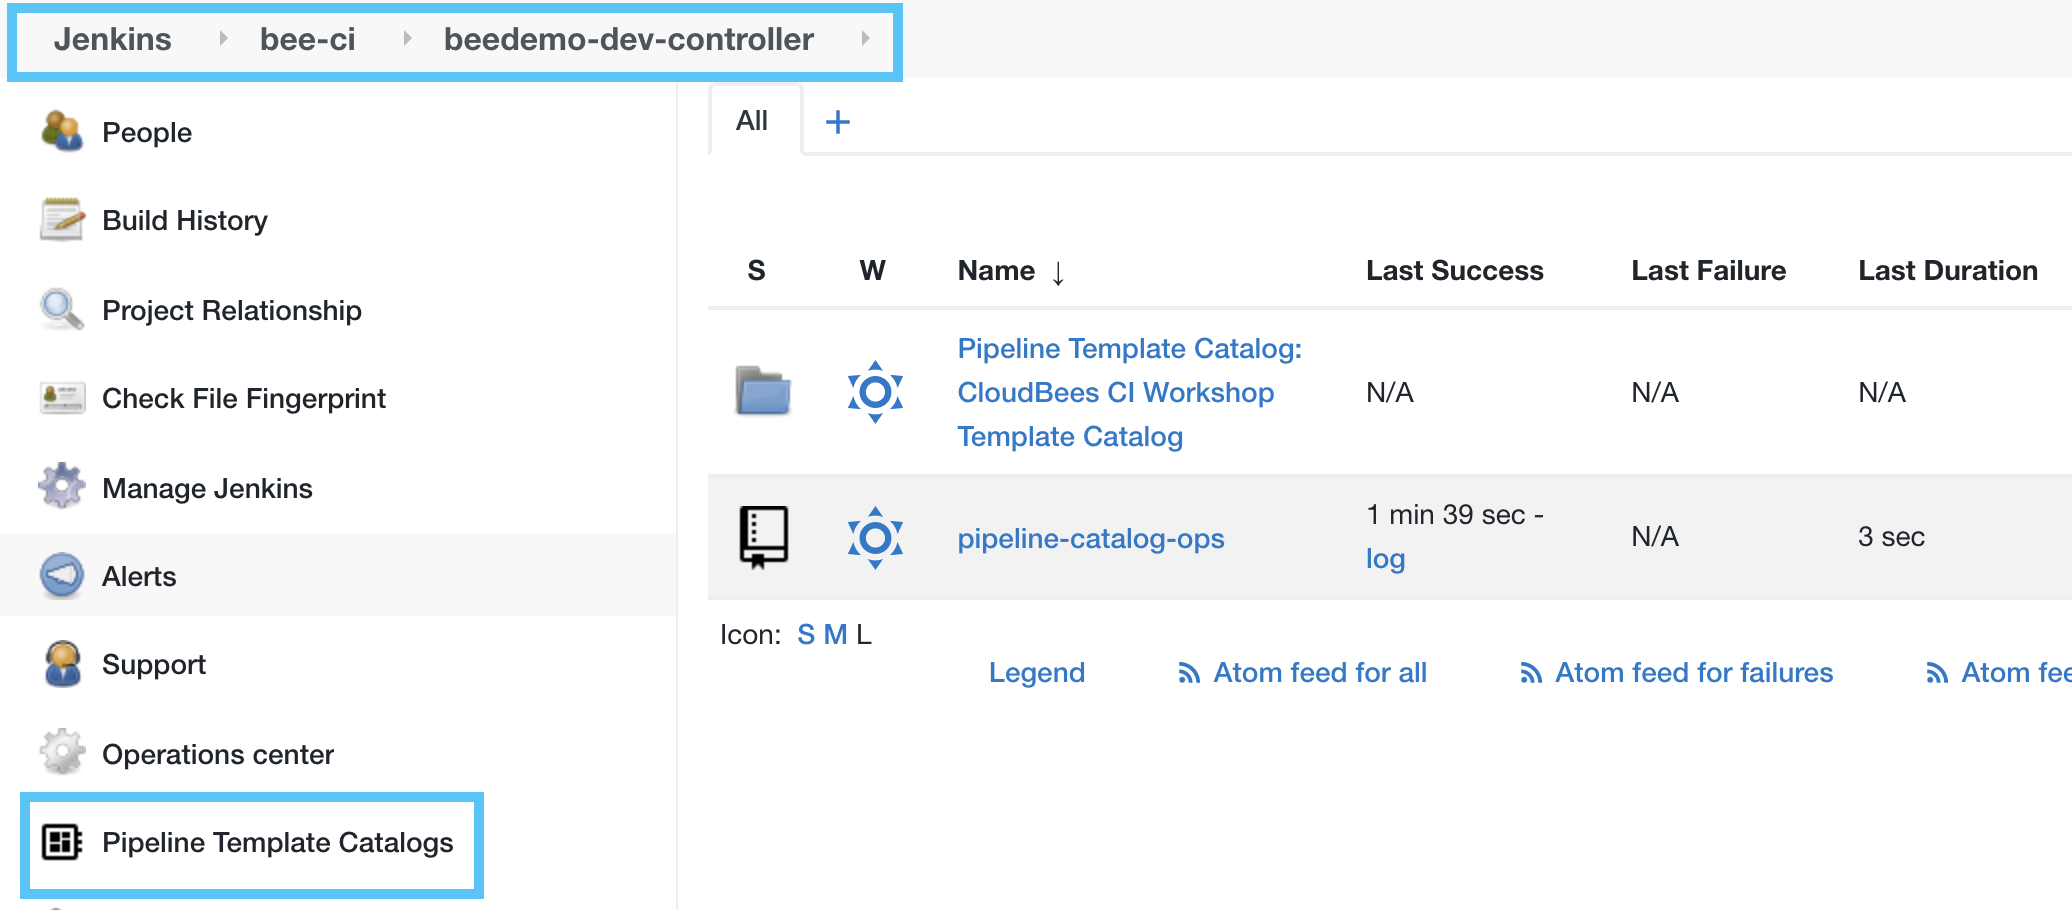
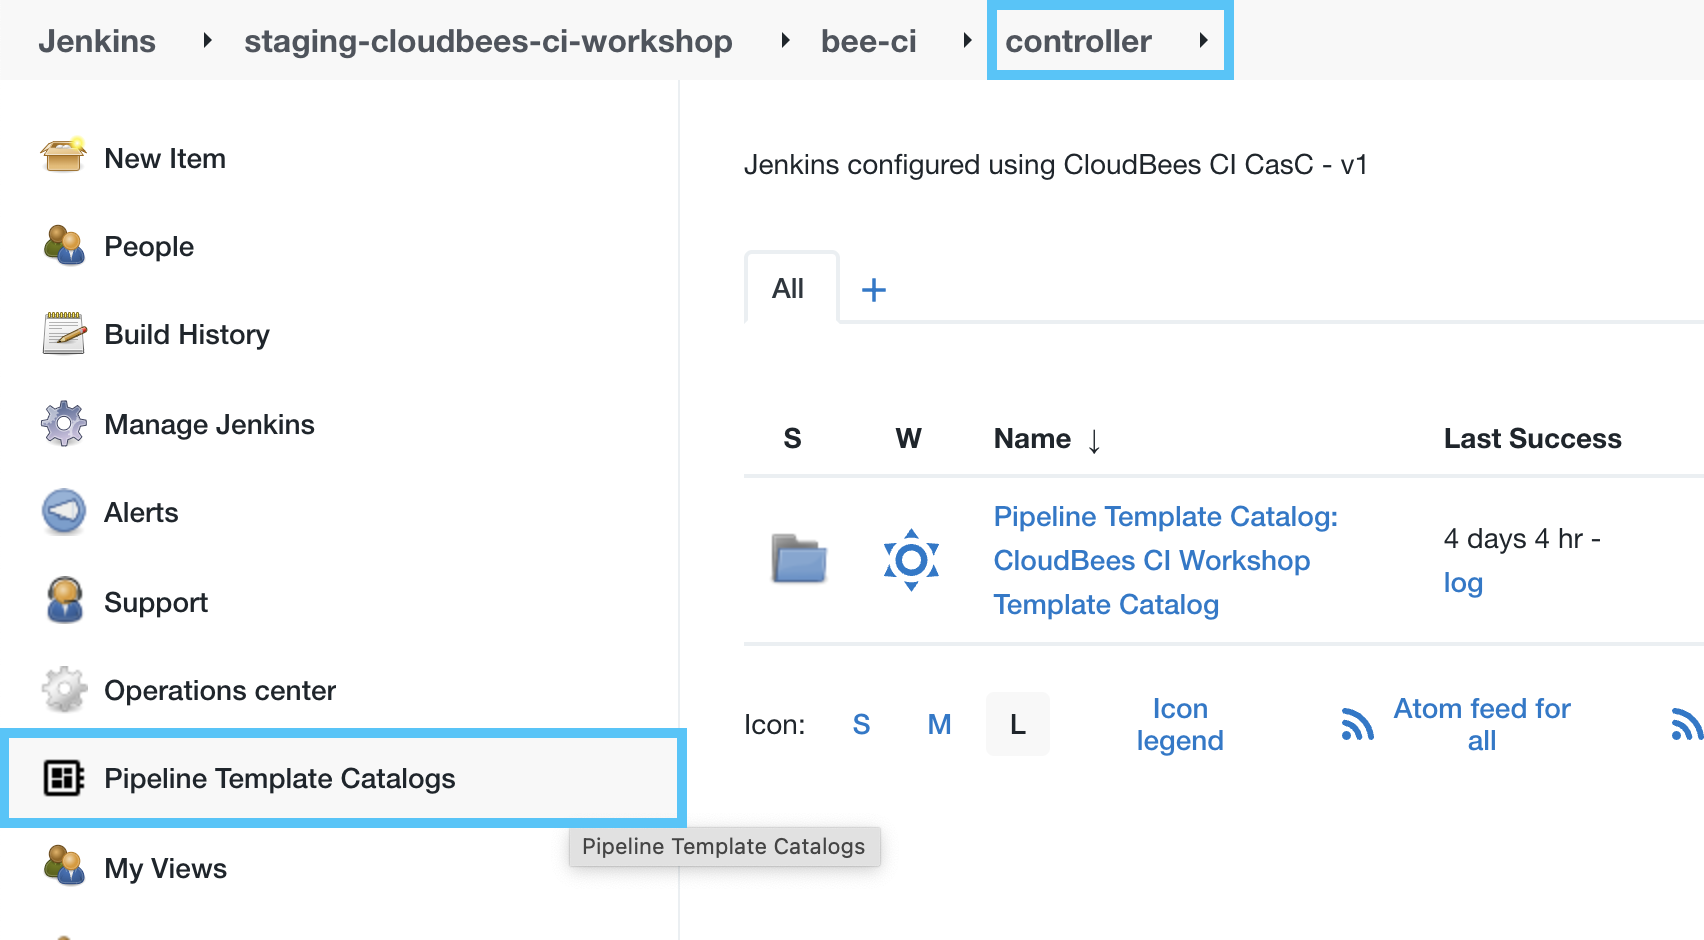
updating template catalog lab

diff --git a/labs/cloudbees-ci/content/module-1/pipeline-template-catalog.md b/labs/cloudbees-ci/content/module-1/pipeline-template-catalog.md
@@ -6,46 +6,16 @@ weight: 1
 
 Managing Pipeline Template Catalogs across a large number of ***managed controllers*** using the graphical user interface (GUI) is time consuming and prone to human error due to the repetitive nature of the task.
 
-Using the provided command-line interface (CLI), allows for automated management of Pipeline Template Catalogs across multiple managed controllers, which reduces efforts and ensures consistency across all development teams.
+Configuration as Code (CasC) for CloudBees CI allows for managing Pipeline Template Catalogs as code across multiple managed controllers, which reduces efforts and ensures consistency across all of your teams.
 
 
-## Import Pipeline Template Catalog
+## Explore Pipeline Template Catalog
 This lab will explore how to manage CloudBees CI Pipeline Template Catalogs with the CloudBees CI CLI. 
 
 1. Navigate to the top-level of CloudBees CI Operations Center - **Dashboard** - and click on the link for your Managed Controller (it will have the same names as your workshop GitHub Organization). ![Managed Controller link](managed-controller-link.png?width=60pc)
-2. At the top-level of your CloudBees CI Managed Controller click on **New Item** in the left menu. ![New Item](create-new-item.png?width=60pc)
-3. Enter ***pipeline-catalog-ops*** as the **item name**, select **Multibranch Pipeline** as the item type and the click the **OK** button. ![import-catalog Pipeline](create-pipeline-item.png?width=60pc)
-4. Under **Branch Sources** click on **Add source** and select ***GitHub*** ![Branch Sources Configuration](add-source-github.png?width=40pc)
-5. Under the **GitHub** branch source enter the following:
-   - Select ***CloudBees CI Workshop GitHub App credential*** for the **Credentials** value. 
-   - Enter the URL for your copy of the `pipeline-template-catalog` as the value for the **Repository HTTPS URL** - ***https:\//github.com/{YOUR_GITHUB_ORGANIZATION}/pipeline-template-catalog.git***
-
-{{% notice tip %}}
-If you navigate to your GitHub `pipeline-template-catalog` repository, and click on the **Code** button, you can then click on the *clipboard* icon to copy the Git URL for your repository.
-{{% /notice %}}
-
-![Copy Repo Git URL](copy-repo-url.png?width=40pc)
-
-   - The rest of the default values are sufficient so click the **Validate** button and then click the **Save** button. ![Branch Sources Configuration](branch-source-config.png?width=50pc)
-   - The `Jenkinsfile` in your `pipeline-template-catalog` repository is configured to use the CloudBees CI CLI command `cli pipeline-template-catalogs --put < create-pipeline-template-catalog.json` to create a **Pipeline Template Catalog** on your Managed Controller from the `create-pipeline-template-catalog.json` file in your `pipeline-template-catalog` repository as seen below:
-     ```json
-     [
-       {
-         "scm":{ 
-           "$class":"GitHubSCMSource",
-           "credentialsId":"cloudbees-ci-workshop-github-app",
-           "repoOwner":"bee-cd",
-           "repository":"pipeline-template-catalog"
-         },
-         "branchOrTag":"main",
-         "updateInterval":"15m"
-       }
-     ]
-     ```
-6. A Pipeline job will be created for the `main` branch of your `pipeline-template-catalog` repository and once the job is complete you should see the following success message in the build logs: ![Catalog Imported](catalog-imported.png?width=50pc)
-7. Navigate to the top-level of your managed controller and then click on the **Pipeline Template Catalogs** link in the menu on the left. ![Pipeline Template Catalogs link](catalog-link.png?width=40pc)
-8. On the **Pipeline Template Catalogs** page ensure that the **workshopCatalog** catalog's **Status** is ***Healthy*** and then click on the **workshopCatalog** link. <p>![workshopCatalog link](workshopcatalog-link.png?width=50pc)
-9.  On the **CloudBees CI Workshop Template Catalog** screen you will see the following templates listed: ![Template List](workshop-template-list.png?width=50pc)
+2. Navigate to the top-level of your managed controller and then click on the **Pipeline Template Catalogs** link in the menu on the left. ![Pipeline Template Catalogs link](catalog-link.png?width=40pc)
+3. On the **Pipeline Template Catalogs** page ensure that the **workshopCatalog** catalog's **Status** is ***Healthy*** and then click on the **workshopCatalog** link. <p>![workshopCatalog link](workshopcatalog-link.png?width=50pc)
+4.  On the **CloudBees CI Workshop Template Catalog** screen you will see the following templates listed: ![Template List](workshop-template-list.png?width=50pc)
 
 ## Enforce the Use of Templates at the Folder Level
 The [CloudBees CI Folders Plus plugin](https://docs.cloudbees.com/docs/cloudbees-ci/latest/cloud-secure-guide/folders-plus) includes the ability to restrict the type of items/jobs allowed to be created in a folder. When this capability is used with [CloudBees CI RBAC](https://docs.beescloud.com/docs/cloudbees-ci/latest/cloud-secure-guide/rbac) you can easily enforce the use of approved (and tested) Pipeline templates across all your CloudBees CI users.

diff --git a/labs/cloudbees-ci/content/module-1/casc.md b/labs/cloudbees-ci/content/module-1/casc.md
@@ -16,7 +16,7 @@ In this lab you will:
 2. Click on the **New Item** link in the left navigation menu.
 3. Enter ***config-bundle-ops*** as the **Item Name**, select **CloudBees CI Configuration Bundle** as the item type and then click the **OK** button. ![New Update Bundle](new-bundle-template-job.png?width=50pc)
 4. On the next screen, fill in the **GitHub Organization** template parameter with the name of the GitHub Organization you created for this workshop (all the other default values should be correct) and then click the **Save** button. ![Config Bundle Template Parameters](bundle-template-params.png?width=50pc) 
-5.  After you click the **Save** button the Multibranch Pipeline project (created by the template) will scan your copy of the `cloubees-ci-config-bunlde` repository, creating a Pipeline job for each branch where there is a marker file that matched `bundle.yaml` (or in this case, just the `PR-1` Pull Request). Click on the **Scan Repository Log** link in the left menu to see the results of the branch indexing scan. ![Scan Log](bundle-scan-log.png?width=50pc) 
+5.  After you click the **Save** button, the Multibranch Pipeline project (created by the template) will scan your copy of the `cloubees-ci-config-bunlde` repository, creating a Pipeline job for each branch where there is a marker file that matched `bundle.yaml` (or in this case, just the `PR-1` Pull Request). Click on the **Scan Repository Log** link in the left menu to see the results of the branch indexing scan. ![Scan Log](bundle-scan-log.png?width=50pc) 
 6.  Next, click on the **config-bundle-ops** link in the menu at the top of page and you will see that there are no jobs for **Branches** and 5 jobs for **Pull Requests**.  Click on the **Pull Requests** tab. ![Scan Log](bundle-no-branch-jobs.png?width=50pc) 
 7.  In the **Pull Requests** view of your Multibranch project click on the link for **PR-1**. ![PR-1 Link](pr-link.png?width=50pc)
 8.  On the build screen for **PR-1** click on the **GitHub** link in the left navigation menu that will take you to the pull request page in GitHub. ![PR-1 GitHub Link](pr-github-link.png?width=50pc)
